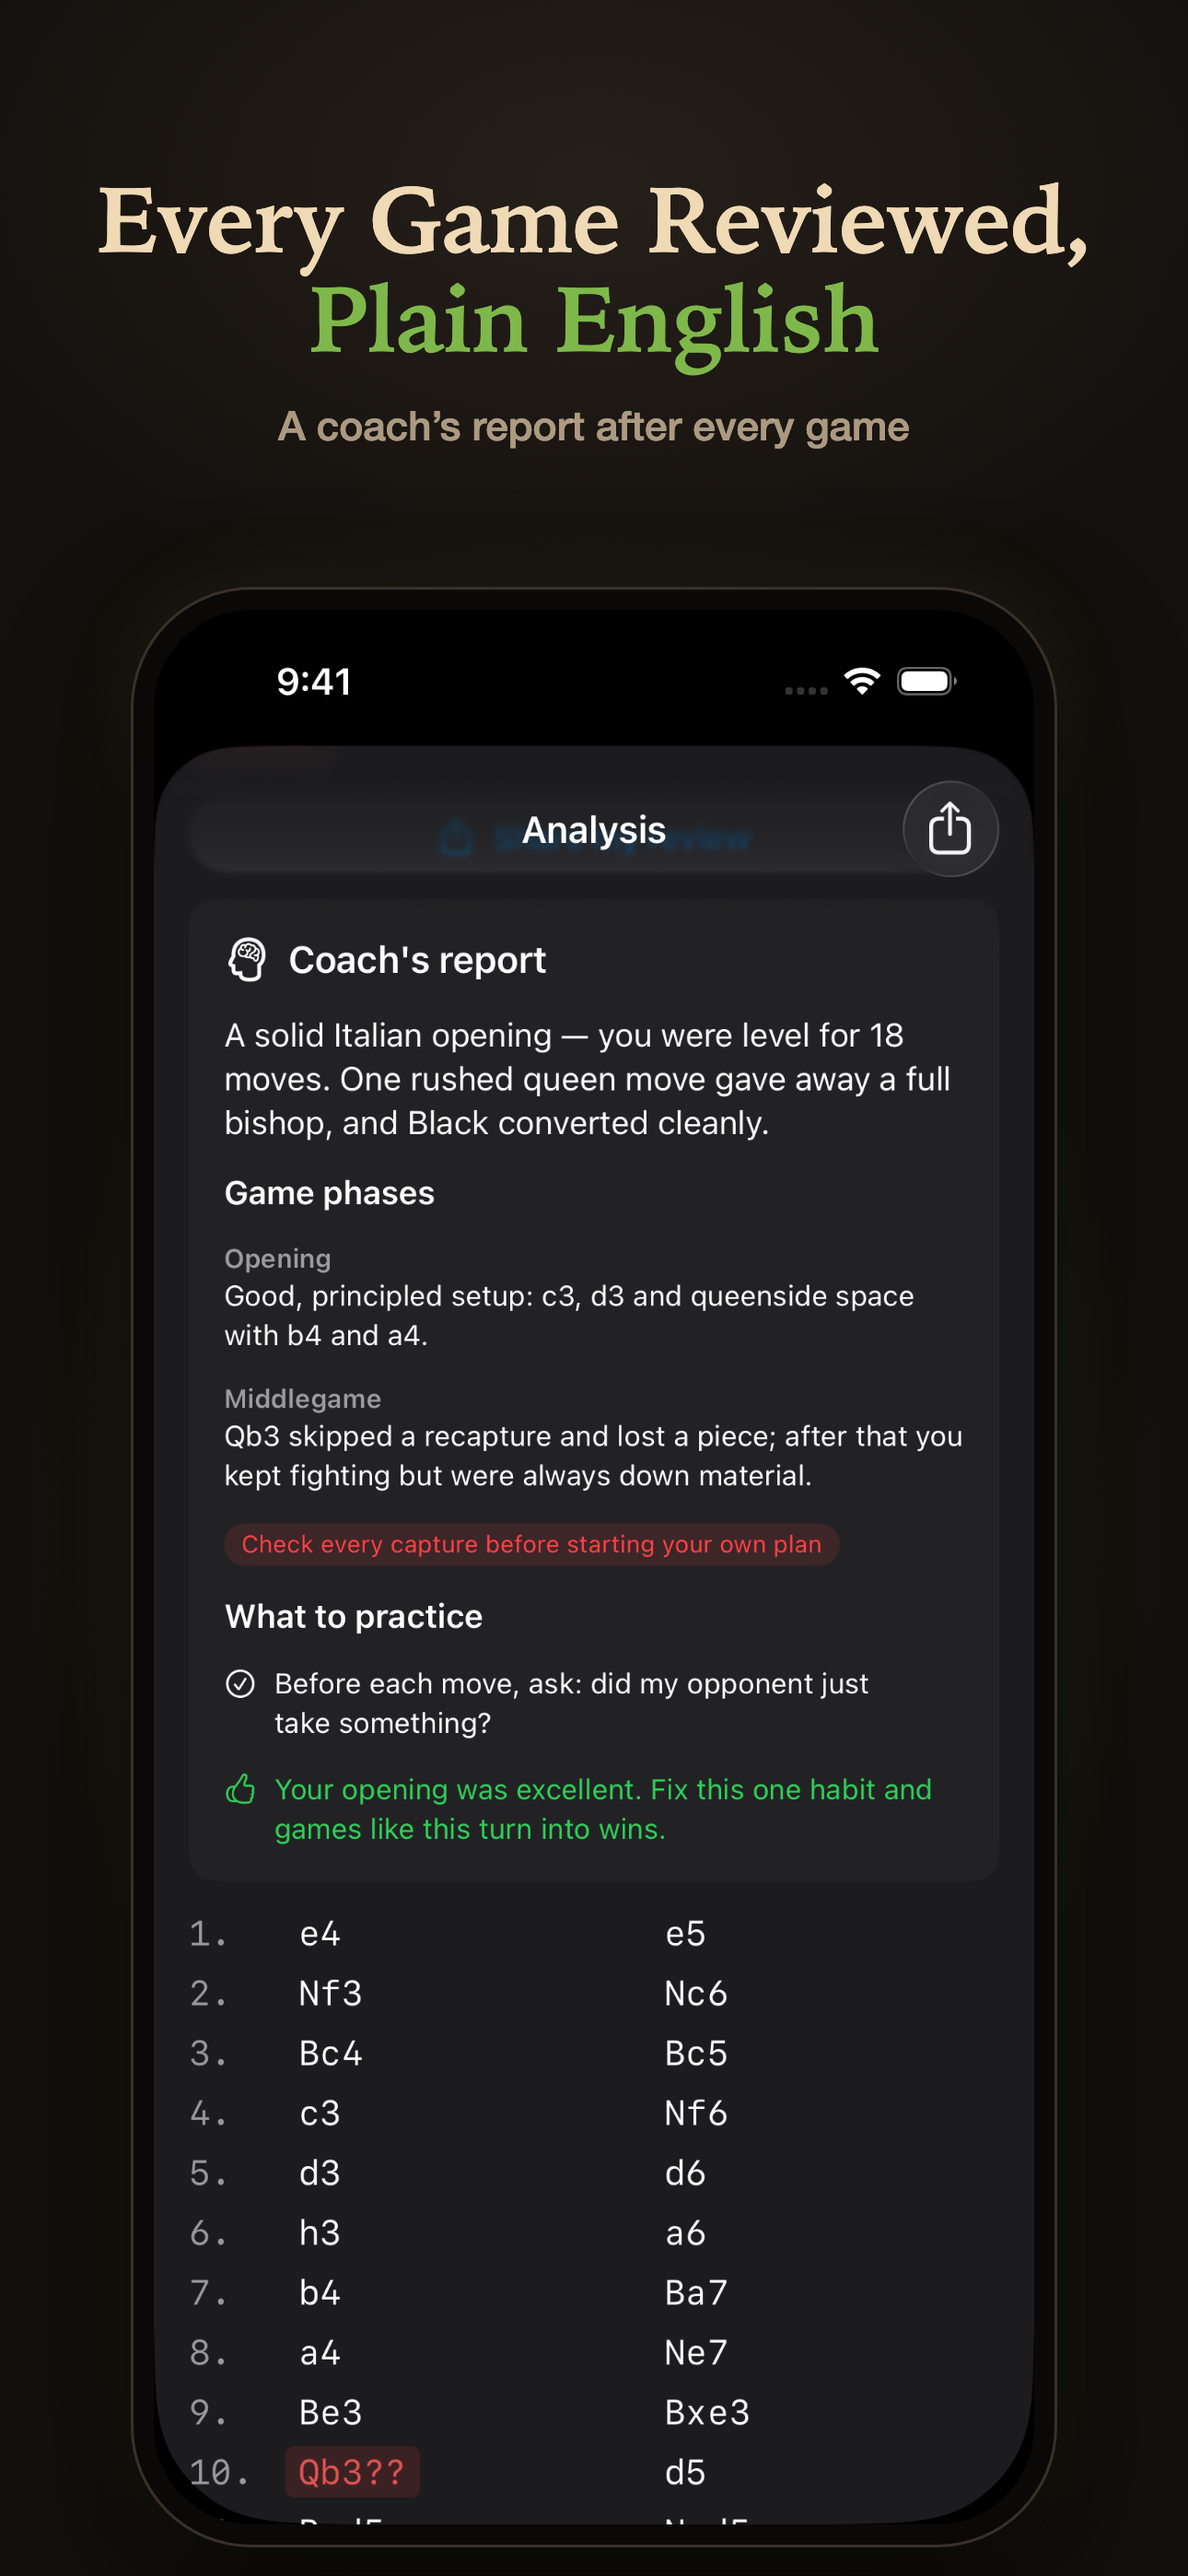
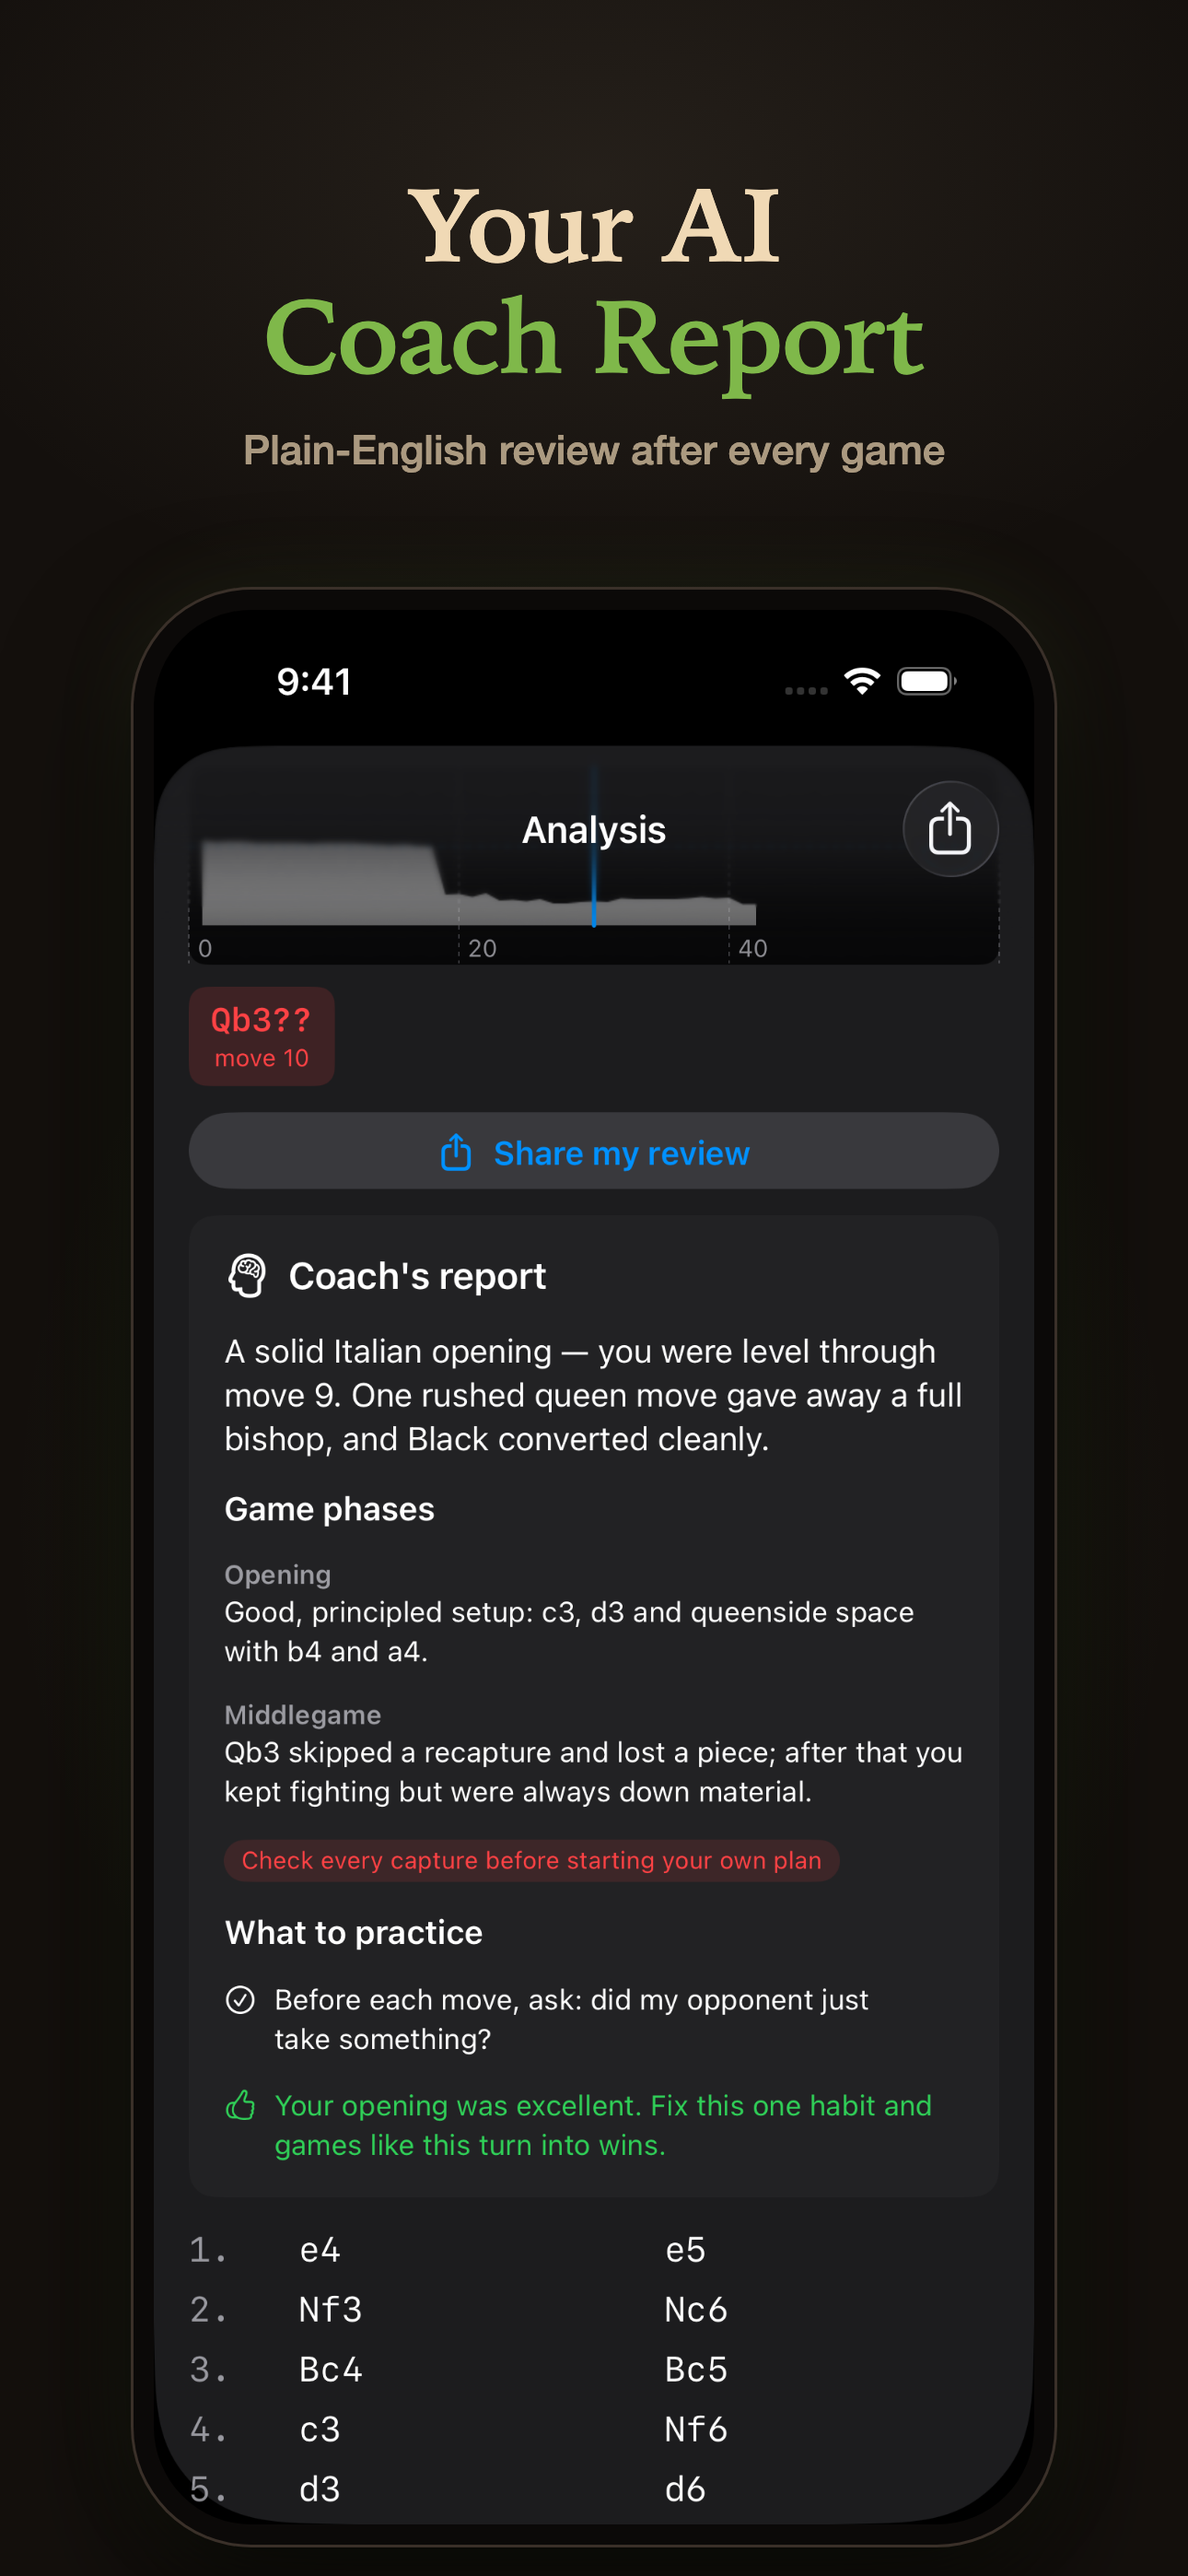
App Store screenshots: coach report, AI analysis titles; add Play With Friends

diff --git a/docs/appstore/source/html/setA_06.html b/docs/appstore/source/html/setA_06.html
@@ -1,0 +1,13 @@
+<!doctype html><html><head><meta charset="utf-8"><style>*{margin:0;padding:0;box-sizing:border-box}
+html,body{width:1290px;height:2796px;overflow:hidden;background:#14100D}
+body{position:relative;font-family:'Iowan Old Style','Palatino',serif;
+background:radial-gradient(ellipse 900px 1100px at 50% 1650px,rgba(127,184,74,.16),rgba(127,184,74,0) 70%),
+radial-gradient(ellipse 1100px 700px at 50% 200px,rgba(240,217,181,.08),rgba(240,217,181,0) 70%),#14100D}
+.head{position:absolute;top:185px;left:60px;right:60px;text-align:center}
+h1{font-weight:700;font-size:112px;line-height:1.08;color:#F0D9B5;letter-spacing:-1px}
+.g{color:#7FB84A}
+p{margin-top:34px;font-family:-apple-system,'Helvetica Neue',sans-serif;font-size:44px;color:rgba(240,217,181,.68);font-weight:500}
+.phone{position:absolute;left:145px;top:640px;width:1000px;height:2122px;border-radius:128px;background:#0b0908;
+padding:22px;box-shadow:0 0 0 3px #3a3029,0 60px 140px rgba(0,0,0,.75),0 0 90px rgba(127,184,74,.12)}
+.phone img{width:956px;height:2078px;border-radius:106px;display:block}
+</style></head><body><div class="head"><h1 style="">Play With<br><span class="g">Friends</span></h1><p>Text a link and play live, wherever you are</p></div><div class="phone"><img src="../raw/friends.png"></div></body></html>

diff --git a/docs/appstore/source/html/setA_02.html b/docs/appstore/source/html/setA_02.html
@@ -10,4 +10,4 @@ p{margin-top:34px;font-family:-apple-system,'Helvetica Neue',sans-serif;font-siz
 .phone{position:absolute;left:145px;top:640px;width:1000px;height:2122px;border-radius:128px;background:#0b0908;
 padding:22px;box-shadow:0 0 0 3px #3a3029,0 60px 140px rgba(0,0,0,.75),0 0 90px rgba(127,184,74,.12)}
 .phone img{width:956px;height:2078px;border-radius:106px;display:block}
-</style></head><body><div class="head"><h1 style="font-size:100px"><span style="font-size:100px">Every Game Reviewed,</span><br><span class="g">Plain English</span></h1><p>A coach&rsquo;s report after every game</p></div><div class="phone"><img src="raw/report.png"></div></body></html>
+</style></head><body><div class="head"><h1 style="">Your AI<br><span class="g">Coach Report</span></h1><p>Plain-English review after every game</p></div><div class="phone"><img src="../raw/report.png"></div></body></html>

diff --git a/docs/appstore/source/html/setA_05.html b/docs/appstore/source/html/setA_05.html
@@ -10,4 +10,4 @@ p{margin-top:34px;font-family:-apple-system,'Helvetica Neue',sans-serif;font-siz
 .phone{position:absolute;left:145px;top:640px;width:1000px;height:2122px;border-radius:128px;background:#0b0908;
 padding:22px;box-shadow:0 0 0 3px #3a3029,0 60px 140px rgba(0,0,0,.75),0 0 90px rgba(127,184,74,.12)}
 .phone img{width:956px;height:2078px;border-radius:106px;display:block}
-</style></head><body><div class="head"><h1 style=""><span class="g">1,369 Puzzles</span><br>to Sharpen Tactics</h1><p>Forks, pins, mates and more, plus a daily puzzle</p></div><div class="phone"><img src="raw/daily.png"></div></body></html>
+</style></head><body><div class="head"><h1 style=""><span class="g">1,369 Puzzles</span><br>to Sharpen Tactics</h1><p>Forks, pins, mates and more, plus a daily puzzle</p></div><div class="phone"><img src="../raw/daily.png"></div></body></html>

diff --git a/docs/appstore/source/html/setA_04.html b/docs/appstore/source/html/setA_04.html
@@ -10,4 +10,4 @@ p{margin-top:34px;font-family:-apple-system,'Helvetica Neue',sans-serif;font-siz
 .phone{position:absolute;left:145px;top:640px;width:1000px;height:2122px;border-radius:128px;background:#0b0908;
 padding:22px;box-shadow:0 0 0 3px #3a3029,0 60px 140px rgba(0,0,0,.75),0 0 90px rgba(127,184,74,.12)}
 .phone img{width:956px;height:2078px;border-radius:106px;display:block}
-</style></head><body><div class="head"><h1 style="">An Opponent<br>That <span class="g">Matches You</span></h1><p>Auto level grows with you, Newcomer to Grandmaster</p></div><div class="phone"><img src="raw/auto.png"></div></body></html>
+</style></head><body><div class="head"><h1 style="">An Opponent<br>That <span class="g">Matches You</span></h1><p>Auto level grows with you, Newcomer to Grandmaster</p></div><div class="phone"><img src="../raw/auto.png"></div></body></html>

diff --git a/docs/appstore/source/html/setA_03.html b/docs/appstore/source/html/setA_03.html
@@ -10,4 +10,4 @@ p{margin-top:34px;font-family:-apple-system,'Helvetica Neue',sans-serif;font-siz
 .phone{position:absolute;left:145px;top:640px;width:1000px;height:2122px;border-radius:128px;background:#0b0908;
 padding:22px;box-shadow:0 0 0 3px #3a3029,0 60px 140px rgba(0,0,0,.75),0 0 90px rgba(127,184,74,.12)}
 .phone img{width:956px;height:2078px;border-radius:106px;display:block}
-</style></head><body><div class="head"><h1 style="">See Your Mistakes,<br><span class="g">Best Moves</span></h1><p>Red is what you played. Green is better.</p></div><div class="phone"><img src="raw/km2.png"></div></body></html>
+</style></head><body><div class="head"><h1 style=""><span class="g">AI Analysis</span><br>of Every Move</h1><p>Red is what you played. Green is better.</p></div><div class="phone"><img src="../raw/km2.png"></div></body></html>

diff --git a/docs/appstore/source/build.py b/docs/appstore/source/build.py
@@ -1,17 +1,13 @@
 import os, subprocess, sys
-R=os.path.abspath("raw")
+R="../raw"
 G=lambda s:f'<span class="g">{s}</span>'
 shots={
 "setA/01":("Your Personal 24×7<br>"+G("AI Chess Coach"),"Notes on every mistake, in your own games","an3"),
-"setA/02":("<span style=\"font-size:100px\">Every Game Reviewed,</span><br>"+G("Plain English"),"A coach&rsquo;s report after every game","report"),
-"setA/03":("See Your Mistakes,<br>"+G("Best Moves"),"Red is what you played. Green is better.","km2"),
+"setA/02":("Your AI<br>"+G("Coach Report"),"Plain-English review after every game","report"),
+"setA/03":(G("AI Analysis")+"<br>of Every Move","Red is what you played. Green is better.","km2"),
 "setA/04":("An Opponent<br>That "+G("Matches You"),"Auto level grows with you, Newcomer to Grandmaster","auto"),
+"setA/06":("Play With<br>"+G("Friends"),"Text a link and play live, wherever you are","friends"),
 "setA/05":(G("1,369 Puzzles")+"<br>to Sharpen Tactics","Forks, pins, mates and more, plus a daily puzzle","daily"),
-"setB/01":("Learn Chess<br>"+G("the Smart Way"),"An AI coach that explains every mistake","an3"),
-"setB/02":(G("16 Lessons")+"<br>From Zero","From how the pieces move to checkmate patterns","learn3"),
-"setB/03":("Puzzles Matched<br>to "+G("Your Level"),"A difficulty ladder from 600 to 2,800","daily"),
-"setB/04":("Play a Bot<br>"+G("That Adapts"),"Ten levels, Newcomer to Grandmaster","auto"),
-"setB/05":("Free Game Review<br>"+G("After Every Match"),"Accuracy, key moments and best moves","an2"),
 }
 css="""*{margin:0;padding:0;box-sizing:border-box}
 html,body{width:1290px;height:2796px;overflow:hidden;background:#14100D}
@@ -29,5 +25,5 @@ padding:22px;box-shadow:0 0 0 3px #3a3029,0 60px 140px rgba(0,0,0,.75),0 0 90px 
 for out,(h,sub,img) in shots.items():
     if len(sys.argv)>1 and out not in sys.argv[1:]: continue
     f=f"html/{out.replace('/','_')}.html"
-    open(f,"w").write(f'<!doctype html><html><head><meta charset="utf-8"><style>{css}</style></head><body><div class="head"><h1 style="{'font-size:100px' if out=='setA/02' else ''}">{h}</h1><p>{sub}</p></div><div class="phone"><img src="file://{R}/{img}.png"></div></body></html>')
+    open(f,"w").write(f'<!doctype html><html><head><meta charset="utf-8"><style>{css}</style></head><body><div class="head"><h1 style="">{h}</h1><p>{sub}</p></div><div class="phone"><img src="{R}/{img}.png"></div></body></html>')
     subprocess.run(["/Applications/Google Chrome.app/Contents/MacOS/Google Chrome","--headless","--disable-gpu","--force-device-scale-factor=1",f"--screenshot={os.path.abspath(out)}.png","--window-size=1290,2796","--hide-scrollbars","--allow-file-access-from-files","file://"+os.path.abspath(f)],capture_output=True)

diff --git a/CLAUDE.md b/CLAUDE.md
@@ -126,5 +126,5 @@ service this client talks to.
 
 - Blog at getchessai.com/blog/: posts are `blog/_src/<slug>.html` (JSON header line + body HTML) → `python3 blog/build.py` regenerates post pages, blog index and `sitemap.xml`. Topics were picked (2026-11-01) from Keyword Planner volumes where Chess.com only ranks via user forum/blog posts (free game review, average rating, blundering, tilt, training plan, Diamond worth it, AI coach, how long to get good). GA event `blog_appstore_clicked` (`post`).
 - Google Search Console: URL-prefix property `https://getchessai.com/`, verified by the HTML file `google4218bbcf1e51e5c9.html` at the site root (never delete it); sitemap submitted.
-- **ASO plan for the next App Store version (1.0.5)** — keyword field/subtitle can only change with a new version. Keep name "Chess AI: Your Personal Coach"; subtitle "Game Review, Puzzles & Lessons" (was "Play, review, improve chess"); keyword field `analysis,analyzer,learn,trainer,tutor,beginner,engine,tactics,training,computer,offline,friend,mate,openings,blunder` (no "stockfish"/competitor trademarks). Google US demand behind it (2026-11): chess analysis/analyzer 22K, chess puzzles 27K, chess coach 4.4K, learn chess 3.6K, ai chess coach only 260. Screenshots: owner picked **set A** (coach-first) on 2026-11-01 — `docs/appstore/screenshots/01-05.png` (1290×2796, iPhone 6.9"), HTML sources + raw sim captures in `docs/appstore/source/`. Upload them on the 1.0.5 version page (screenshots lock while a version is in review, and 05 shows the Daily Puzzle, which ships in 1.0.5).
+- **ASO plan for the next App Store version (1.0.5)** — keyword field/subtitle can only change with a new version. Keep name "Chess AI: Your Personal Coach"; subtitle "Game Review, Puzzles & Lessons" (was "Play, review, improve chess"); keyword field `analysis,analyzer,learn,trainer,tutor,beginner,engine,tactics,training,computer,offline,friend,mate,openings,blunder` (no "stockfish"/competitor trademarks). Google US demand behind it (2026-11): chess analysis/analyzer 22K, chess puzzles 27K, chess coach 4.4K, learn chess 3.6K, ai chess coach only 260. Screenshots: owner picked **set A** (coach-first) on 2026-11-01 — `docs/appstore/screenshots/01-06.png` (coach, coach report, AI analysis, adaptive bot, puzzles, play with friends) (1290×2796, iPhone 6.9"), HTML sources + raw sim captures in `docs/appstore/source/`. Upload them on the 1.0.5 version page (screenshots lock while a version is in review, and 05 shows the Daily Puzzle, which ships in 1.0.5).
 - Daily-puzzle shares link to getchessai.com/daily/ (landing with App Store link, `ct=daily`).
